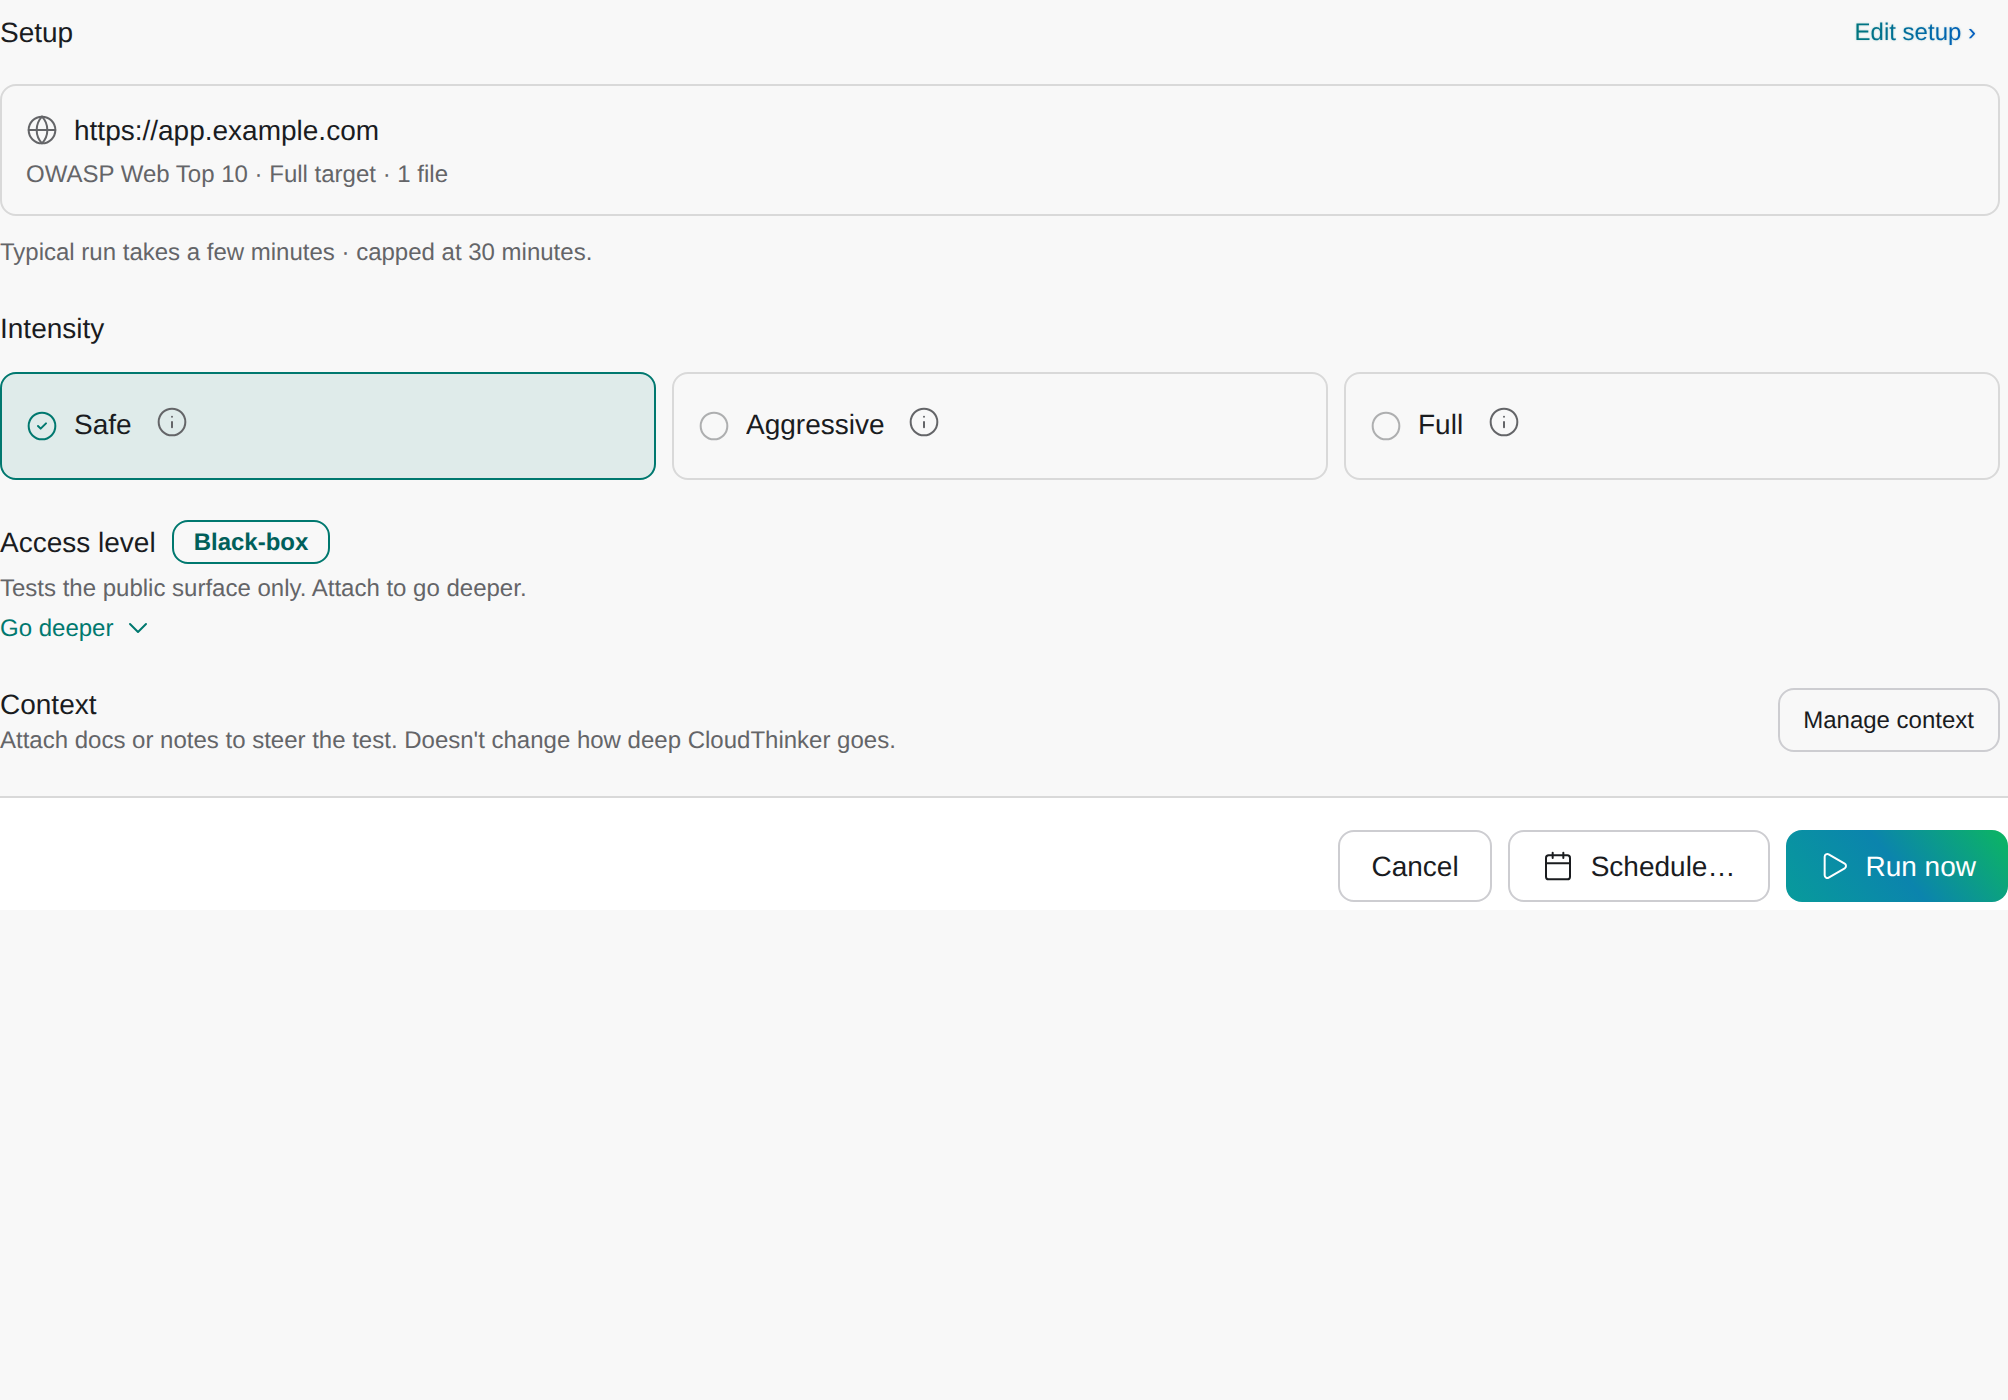
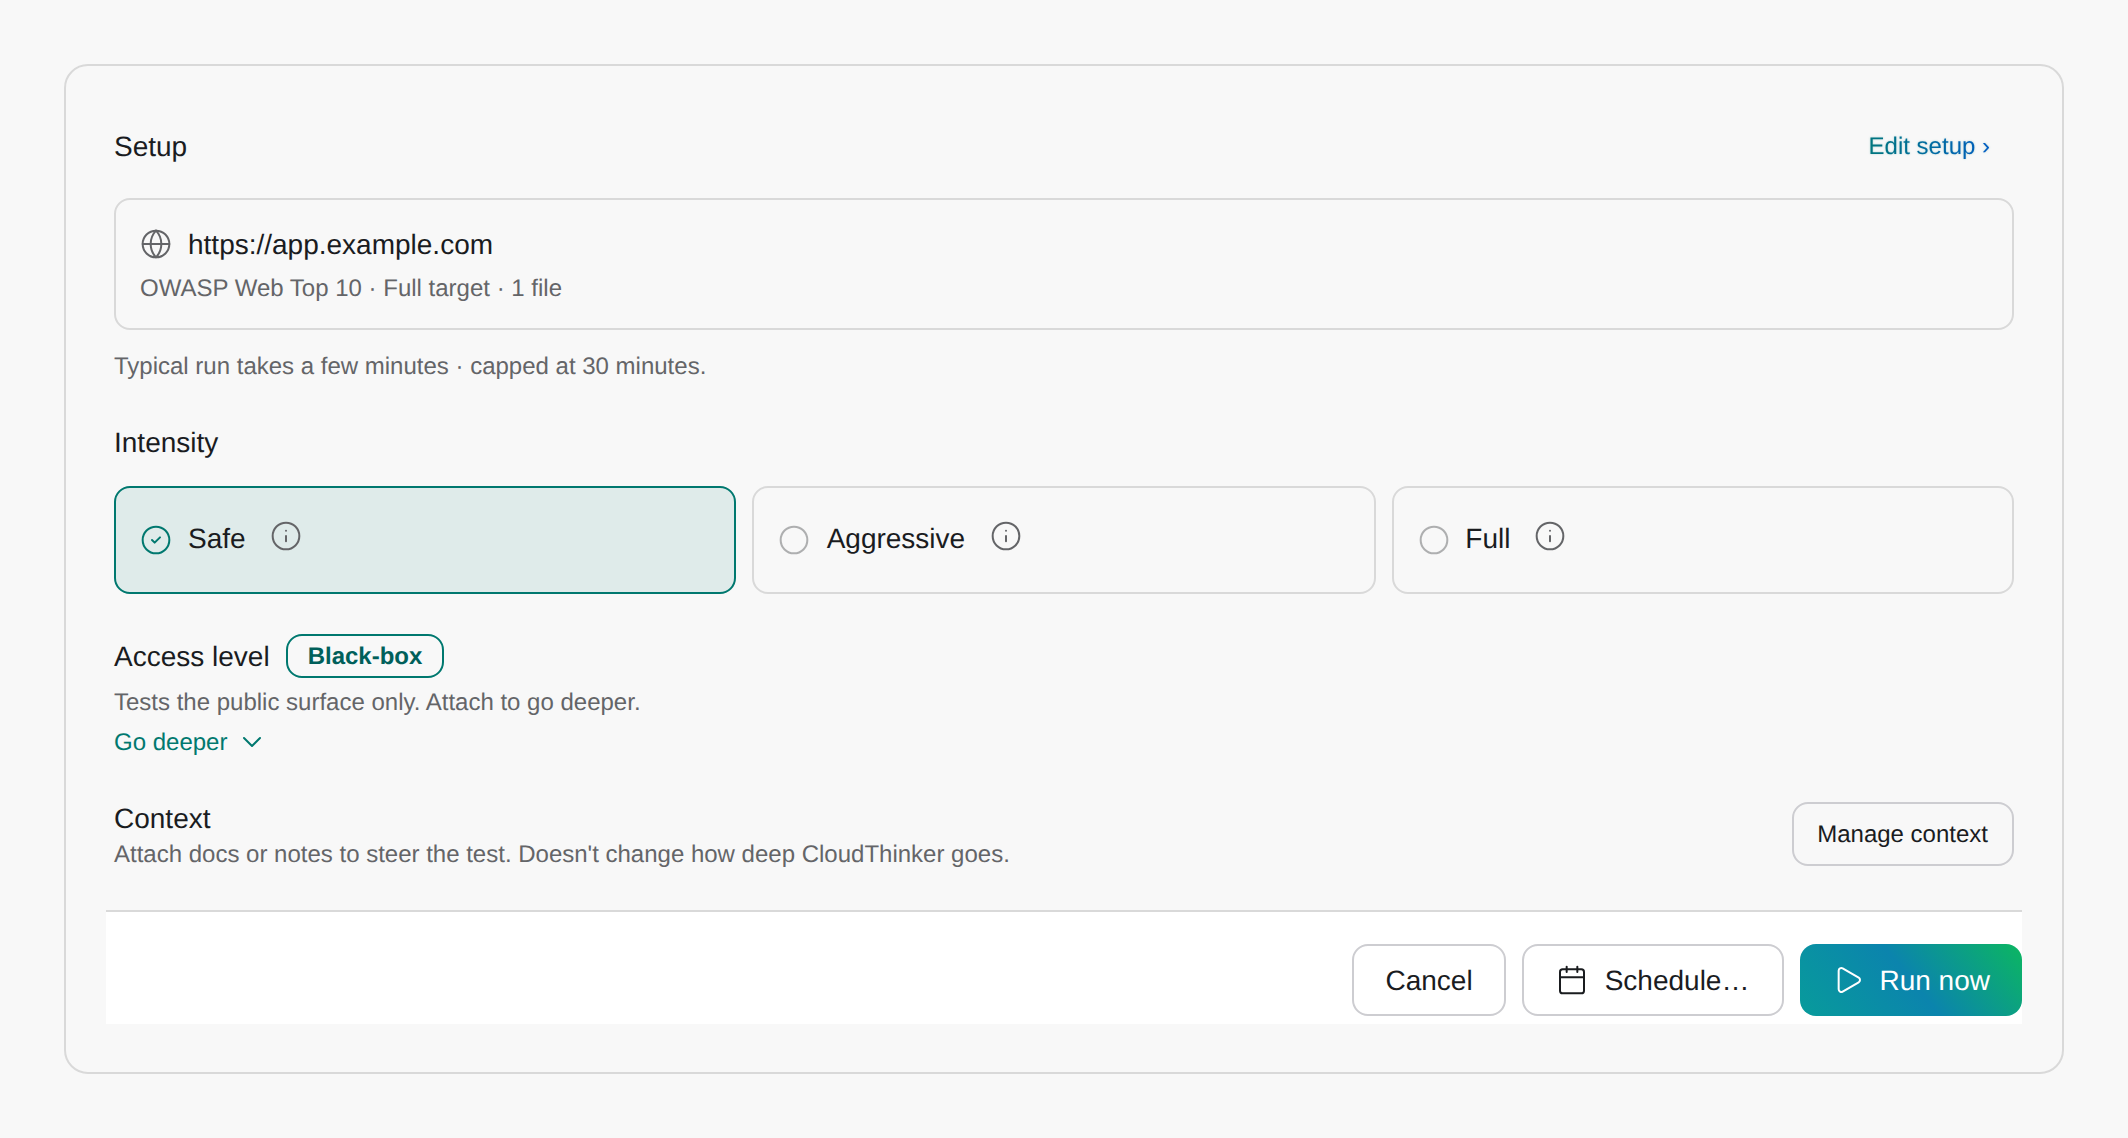
docs: refine Pentest figure framing and remove audit images

diff --git a/images/security/cyber/README.md b/images/security/cyber/README.md
@@ -2,9 +2,9 @@
 
 Captured on 2026-10-12 from the actual CloudThinker frontend components at release tag `0.23.8`, commit `66960032d9ae5b85fb844b6f3704ae4fde457034`.
 
-These are browser screenshots of release components rendered in Storybook with illustrative demo data. They are not records of customer assessments. Capture fixtures supply example domains, test identities, findings, query responses, and library inventory; they do not change the product components or styles. Findings and advisory statuses are examples, not security claims about the named packages or applications. No pentest, code audit, export, login, or other write operation was submitted.
+These are browser screenshots of release components rendered in Storybook with illustrative demo data. They are not records of customer assessments. Capture fixtures supply example domains, test identities, findings, and query responses; they do not change the product components or styles. Findings are examples, not security claims about the named applications. No pentest, code audit, export, login, or other write operation was submitted.
 
-PNG files use the light theme and a device scale factor of 2. Dialogs and the credential form are cropped to the rendered component. The same English UI figures appear in the English, Vietnamese, Japanese, and Korean guides with localized captions.
+PNG files use the light theme and a device scale factor of 2. Dialogs and the credential form are cropped to the rendered component. Figure 06 uses a compact capture with 32 CSS pixels of surrounding space; figure 07 includes 32 CSS pixels of padding and a subtle rounded frame around the run controls. The same English UI figures appear in the English, Vietnamese, Japanese, and Korean guides with localized captions.
 
 | Figure | Release component / Storybook example |
 | --- | --- |
@@ -21,9 +21,5 @@ PNG files use the light theme and a device scale factor of 2. Dialogs and the cr
 | 11 Finding evidence | `FindingDetail`; demo invoice evidence with a redacted authorization placeholder |
 | 12 Standard report | `FindingsReportExport`; Selected Findings / Report Styles, with two demo findings selected |
 | 13 Test-user credentials | `AuthCredentialForm`; Authentication / Password / Ready, with demo identity metadata and an empty password |
-| 14 Code Audit source | `CodeAuditNewPage`; New Audit / Source, with a demo repository selected |
-| 15 Code Audit results | `CodeAuditReport`; Report / Findings Kanban |
-| 16 Library inventory | `LibrariesSection`; Libraries / Complete, with illustrative package names and evidence |
-| 17 Custom report | `FindingsReportExport`; Report Styles, with Custom report selected |
 
 When refreshing these assets, pin the requested release, render its components with demo fixtures, interact through the browser, and inspect every screenshot before replacing it. Keep figure filenames and guide references synchronized. Do not redraw controls or capture unreleased behavior as a released feature.
